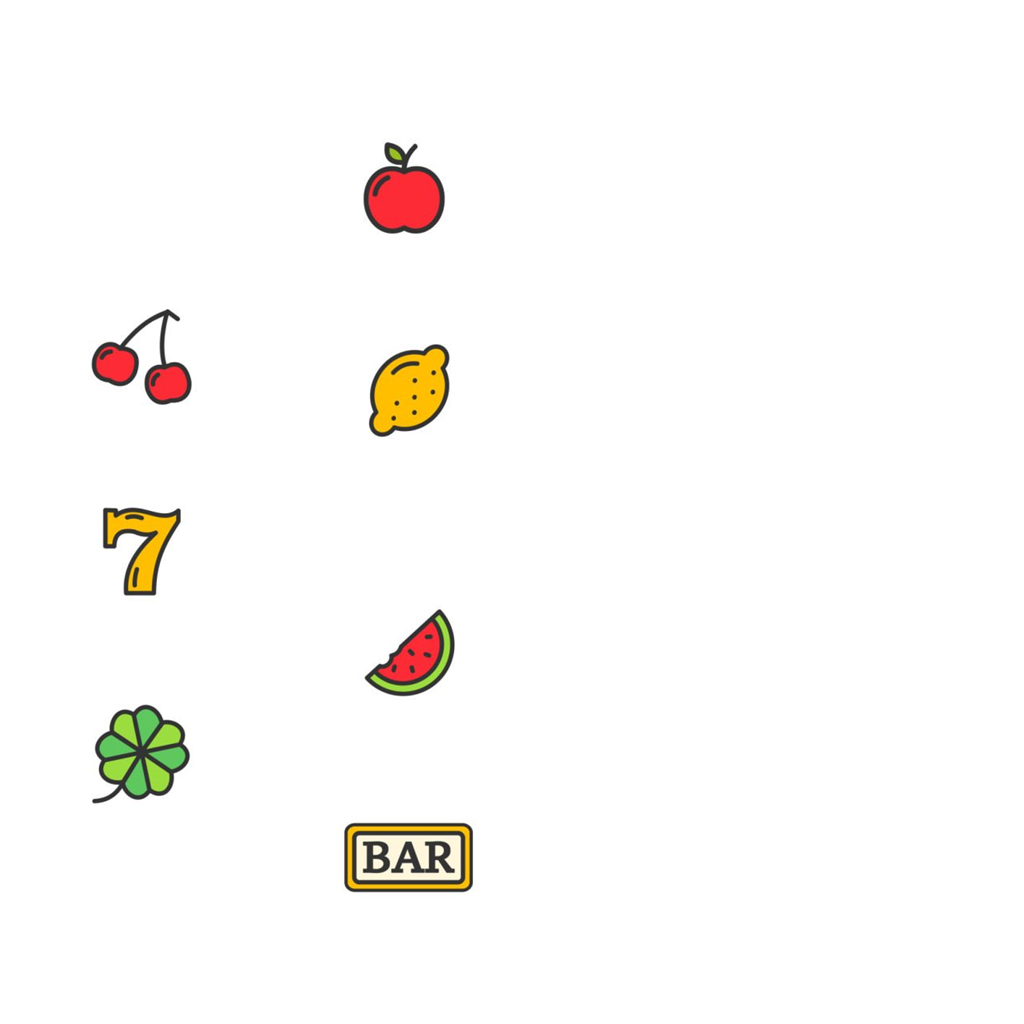
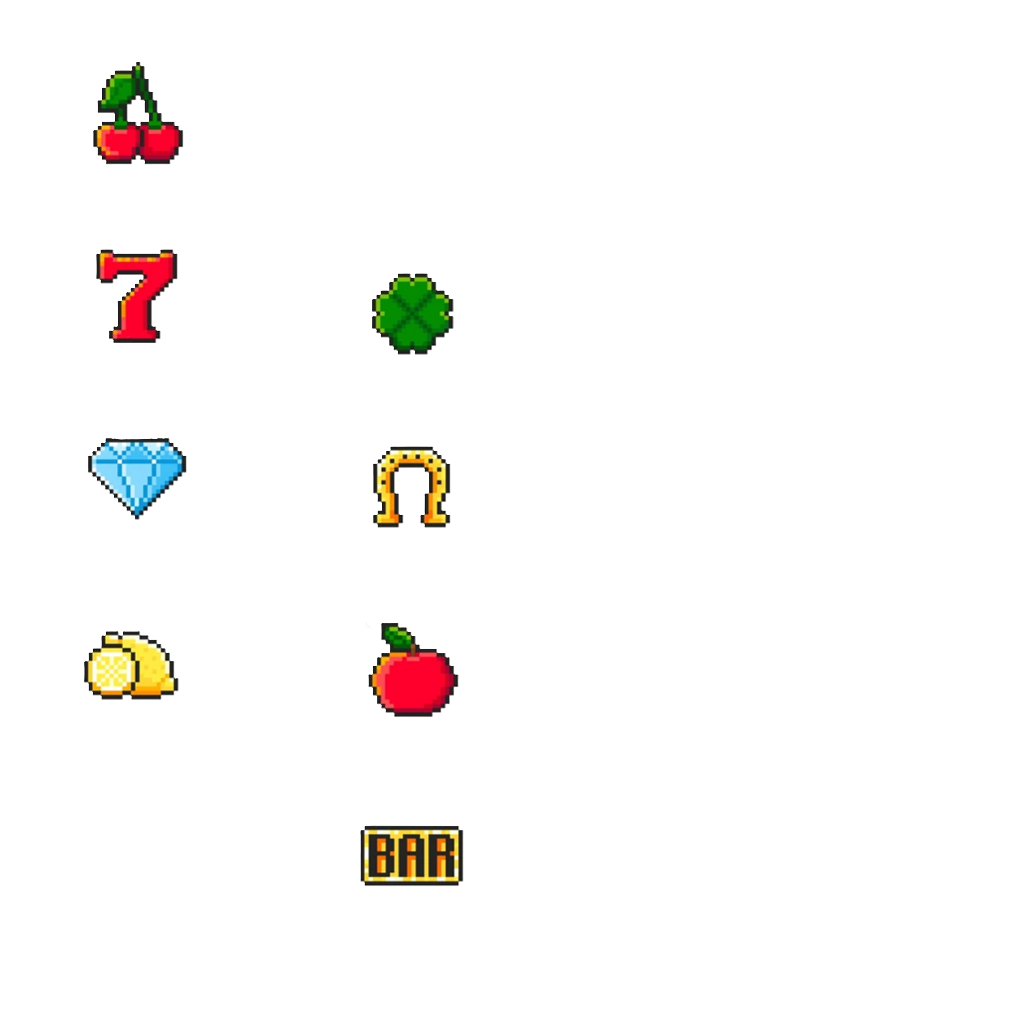
slot팔각으로 수정

diff --git a/term_pro/source.cpp b/term_pro/source.cpp
@@ -322,8 +322,8 @@ glm::vec2 camera_target_angle = glm::vec2(0.0f, 0.0f);
 shape slot;
 float slot_angle[3] = { 0.0f };
 int slot_value[3] = { 0 };
-float slot_target[3] = { 0,0,0 };
 int slot_speed = 0;
+bool slot_stop[3] = { true, true, true };
 bool cheat_mode = false;
 
 shape lever;
@@ -1028,14 +1028,13 @@ void lever_action_2(int v) {
 	}
 	else {
 		lever_protect = false;
-		const float sector = 360.0f / 7.0f;
+		const float sector = 360.0f / 8.0f;
 		const float delta = sector / 15.0f;
 
 		if (!cheat_mode) {
 			int temp = rand() % 10;
 			for (int i = 0; i < 3; i++) {
 				slot_value[i] = 15 * (28 + temp + i);
-				slot_target[i] = std::fmod(slot_angle[i] + slot_value[i] * delta, 360.0f);
 			}
 		}
 		else {
@@ -1043,11 +1042,7 @@ void lever_action_2(int v) {
 				float ang = std::fmod(slot_angle[i], 360.0f);
 				if (ang < 0.0f) ang += 360.0f;
 
-				float target = std::ceil(ang / sector) * sector;
-				target = std::fmod(target, 360.0f);
-				if (target < 0.0f) target += 360.0f;
-
-				float remain = target - ang;
+				float remain = 0.0f - ang;
 				if (remain < 0.0f) remain += 360.0f;
 
 				int steps = static_cast<int>(std::ceil(remain / delta));
@@ -1055,12 +1050,14 @@ void lever_action_2(int v) {
 				if (remain < 1e-5f) steps = 0;
 
 				slot_value[i] = steps;
-				slot_target[i] = target;
+				
 			}
 		}
-
+		slot_stop[0] = false;
 		slot_action(0);
+		slot_stop[1] = false;
 		slot_action(1);
+		slot_stop[2] = false;
 		slot_action(2);
 		return;
 	}
@@ -1069,34 +1066,22 @@ void lever_action_2(int v) {
 }
 
 void slot_action(int v) {
-	const float sector = 360.0f / 7.0f;
-	const float delta = sector / 15.0f;
-
 	if (slot_value[v] == 0) {
-		if (slot_target[v] != 0.0f || cheat_mode) {
-			slot_angle[v] = slot_target[v];
-		}
-		else {
-			float ang = std::fmod(slot_angle[v], 360.0f);
-			if (ang < 0.0f) ang += 360.0f;
-			int k = static_cast<int>(std::round(ang / sector));
-			slot_angle[v] = std::fmod(k * sector, 360.0f);
-			if (slot_angle[v] < 0.0f) slot_angle[v] += 360.0f;
-		}
-
-		if (v == 2) {
-			if (std::fabs(std::fmod(slot_angle[0], sector)) < 1e-3f &&
-				std::fabs(std::fmod(slot_angle[1], sector)) < 1e-3f &&
-				std::fabs(std::fmod(slot_angle[2], sector)) < 1e-3f) {
+		slot_stop[v] = true;
+		if (slot_stop[0] == true && slot_stop[1] == true && slot_stop[2] == true) {
+			slot_speed = 0;
+			if (slot_angle[0] == 0.0f && slot_angle[1] == 0.0f && slot_angle[2] == 0.0f) {
 				jack_pot_1(60);
 			}
 		}
+		std::cout << "Slot " << v << " stopped at angle " << slot_angle[v] << std::endl;
 		return;
 	}
+	const float sector = 360.0f / 8.0f;
+	const float delta = sector / 15.0f;
 
 	slot_angle[v] += delta;
 	if (slot_angle[v] >= 360.0f) slot_angle[v] -= 360.0f;
-
 	slot_value[v]--;
 	glutPostRedisplay();
 	glutTimerFunc(30 - slot_speed, slot_action, v);
@@ -1128,7 +1113,7 @@ void jack_pot_1(int v) {
 		camera_start_angle = glm::vec2(camera_angle[0], camera_angle[1]);
 		camera_target_angle = glm::vec2(camera_start_angle.x + pitchDelta, camera_start_angle.y);
 
-		mouse_control = 0;
+
 	}
 
 	if (camera_move_steps_remaining > 0) {
@@ -1183,8 +1168,6 @@ void jack_pot_3(int v) {
 
 		camera_start_angle = glm::vec2(camera_angle[0], camera_angle[1]);
 		camera_target_angle = glm::vec2(camera_start_angle.x + pitchDelta, camera_start_angle.y);
-
-		mouse_control = 0;
 	}
 
 	if (camera_move_steps_remaining > 0) {
